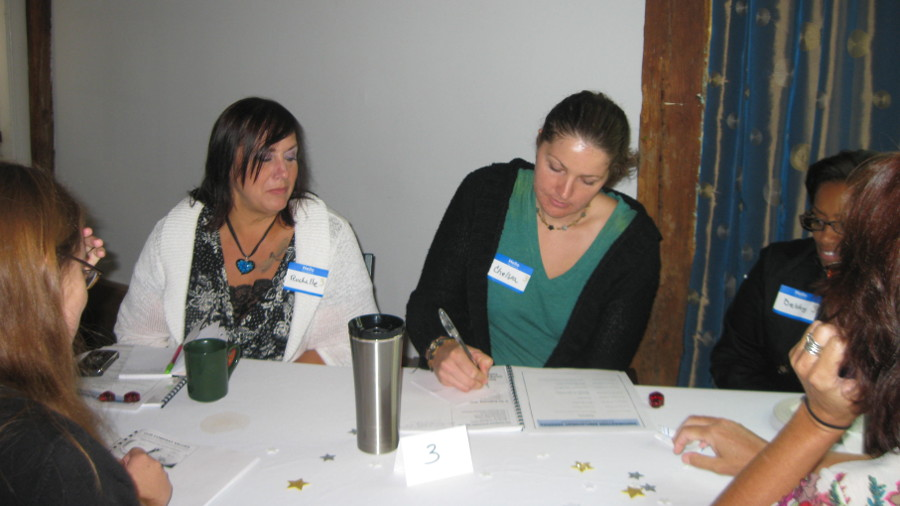
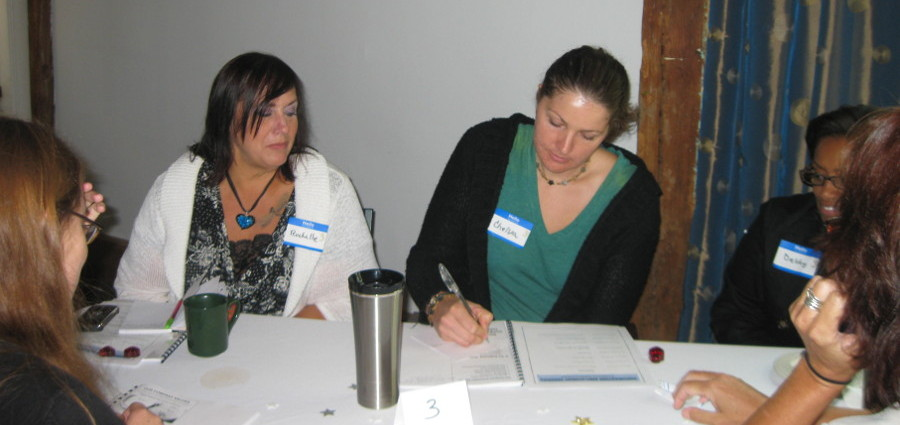
changed value page

diff --git a/ses/values.html b/ses/values.html
@@ -128,9 +128,9 @@
           </div>
           <div class="mainBox coreBox">
             <ul>
-              <li>OUR VISION<br>We envision all people working and living healthy, fulfilled lives.</li>
-              <li class="blue-home-1">OUR MISSION</li>
-              <li>We are committed to bringing quality employment services to people with barriers to employment.</li>
+              <li class="blue-value">OUR VISION</li>
+              <li>
+                We envision all people working and living healthy, fulfilled lives.</li>
             </ul>
           </div>
         </div>
@@ -138,16 +138,30 @@
           <img src="img/2042.jpg">
         </div>
       </div>
-      <div class="row">
+      <div class="row values">
         <div class="col-sm-6 col-md-6">
-          <img src="img/062.jpg">
+          <img src="img/062-crop2.jpg">
         </div>
-        <div class="col-sm-6 col-md-6">
+        <div class="col-sm-6 col-md-6"><br>
           <div class="mainBox coreBox">
             <ul>
-              <li>OUR VISION<br>We envision all people working and living healthy, fulfilled lives.</li>
-              <li class="blue-home-1">OUR MISSION</li>
+              <li class="blue-value">OUR MISSION</li>
               <li>We are committed to bringing quality employment services to people with barriers to employment.</li>
+            </ul>
+          </div>
+        </div>
+      </div>
+      <div class="row values">
+        <div class="col-sm-12 col-md-12">
+          <div class="mainBox">
+            <ul>
+              <li class="blue-value">OUR CORE VALUES</li>
+              <li><i>We act with <b>INTEGRITY</b> in all we do...</i><br>We are each personally accountable for the highest standards of behavior, including honesty and fairness i all aspects of our work.</li>
+              <li><i>We act with <b>COMPASSION</b> in all we do...</i><br>We work from the heart to provide services that make a difference by listening and acknowledging what is important for each individual.</li>
+              <li><i>We know that with <b>HOPE</b> all things are possible...</i><br>We believe what is not realized today is always possible and within our reach tomorrow. Through hope, we transform each individual’s dreams of employment into possibilities.</li>
+              <li><i>We bring <b>INNOVATION</b> to all we do...</i><br>We continually ask the question, “Is there a another way?” We use our expertise and intuition to explore new way of creating employment opportunities.</li>
+              <li><i>We believe in honoring the <b>WHOLENESS</b> of each person we serve...</i><br>We take into consideration the multiple aspects of an individual’s life - social, spiritual, and occupational.</li>
+              <li><b>These principles are at the foundation of every interaction we have with individuals, every decision we make, and action we take to provide employment services.</b></li>
             </ul>
           </div>
         </div>

diff --git a/ses/dist/css/site.css b/ses/dist/css/site.css
@@ -115,6 +115,15 @@ blockquote {
 	padding-left: 2rem;
 }
 
+.blue-value {
+	font-size: 2rem;
+	list-style-type: none;
+	font-weight: bold;
+}
+
+.coreBox {
+	list-style: none;
+}
 
 
 .blue-home-1 {
@@ -252,6 +261,10 @@ textarea {
 
 .spacer {
 	margin-top: 4rem;
+}
+
+.values {
+	margin-top: 3rem;
 }
 
 

diff --git a/ses/home-2.html b/ses/home-2.html
@@ -128,7 +128,7 @@
             <img src="img/p1-02-2.jpg" id="len">
           </div>
         </div>
-        <div class="col-sm-6 col-md-6">
+        <div class="col-sm-6 col-md-6"><br><br>
           <div class="mainBox">
             <h3 class="headBox">SES will:</h3>
             <ul>
